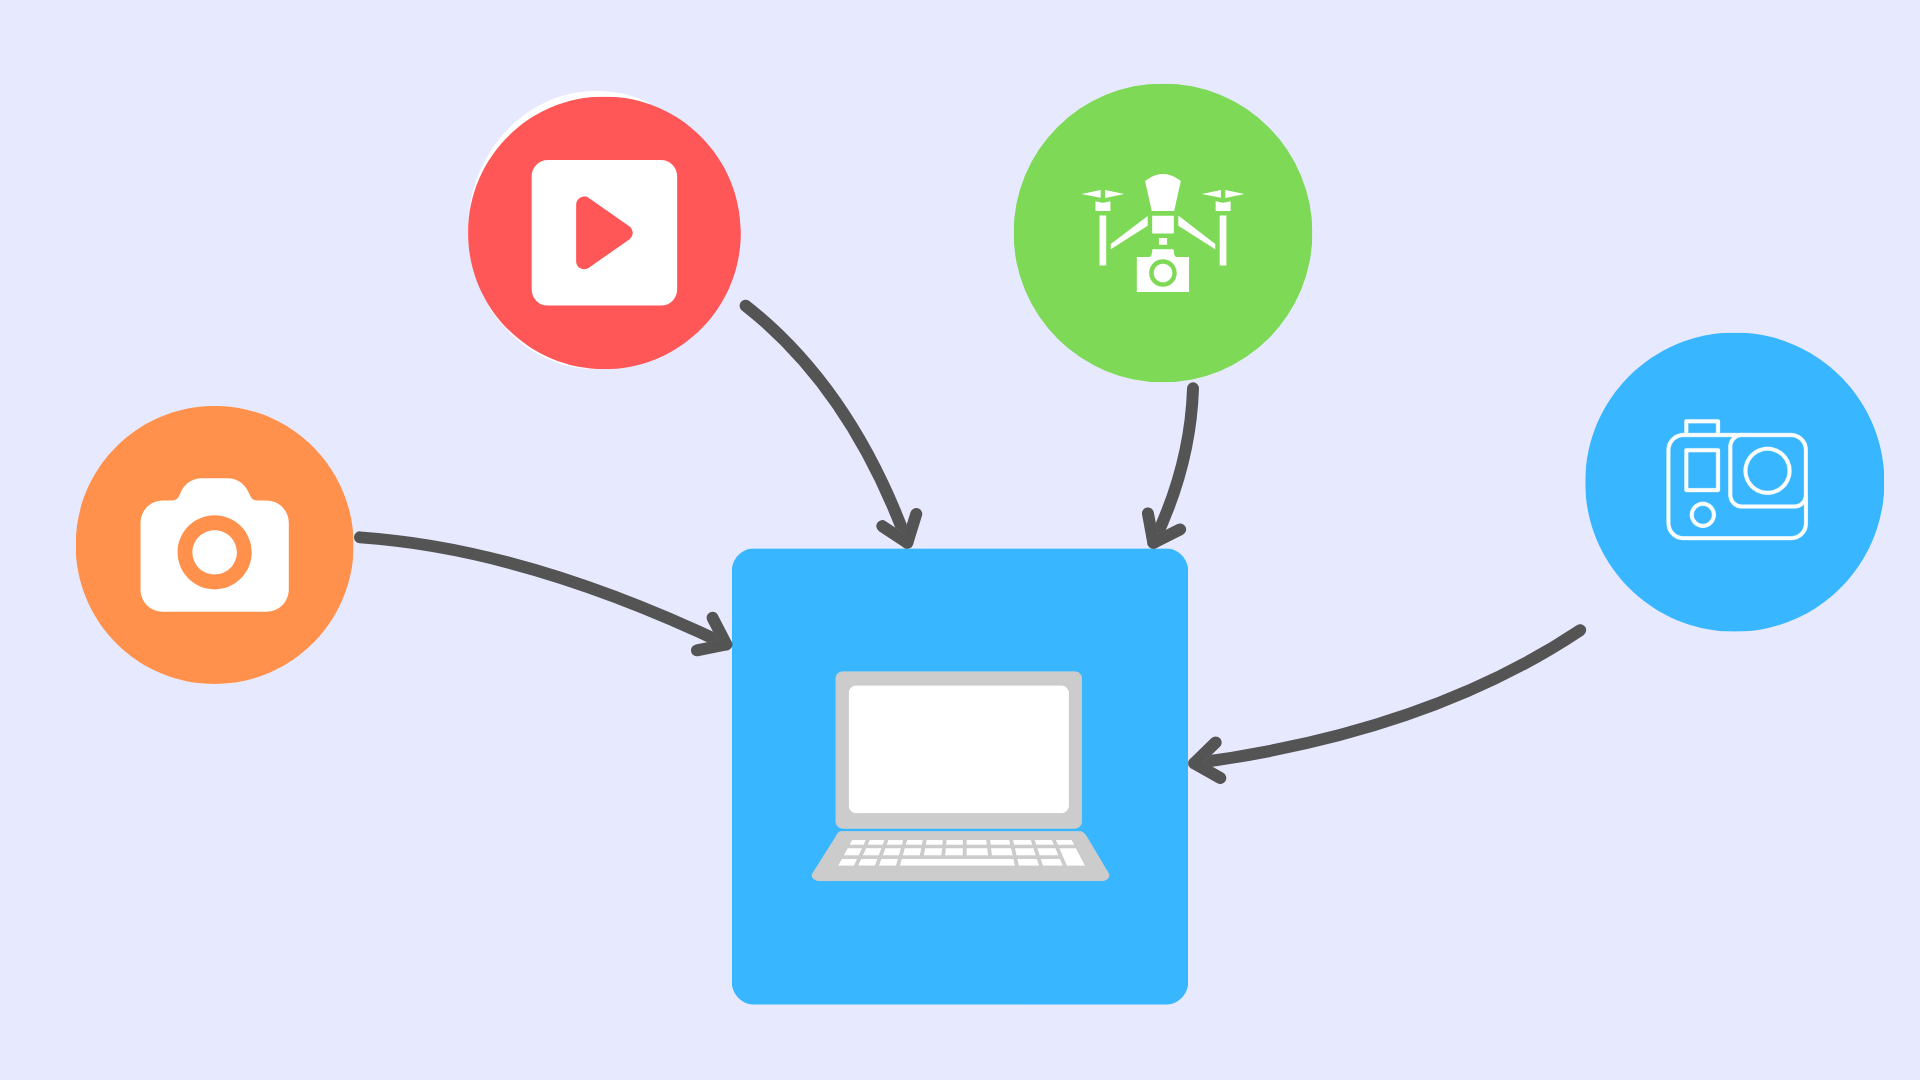
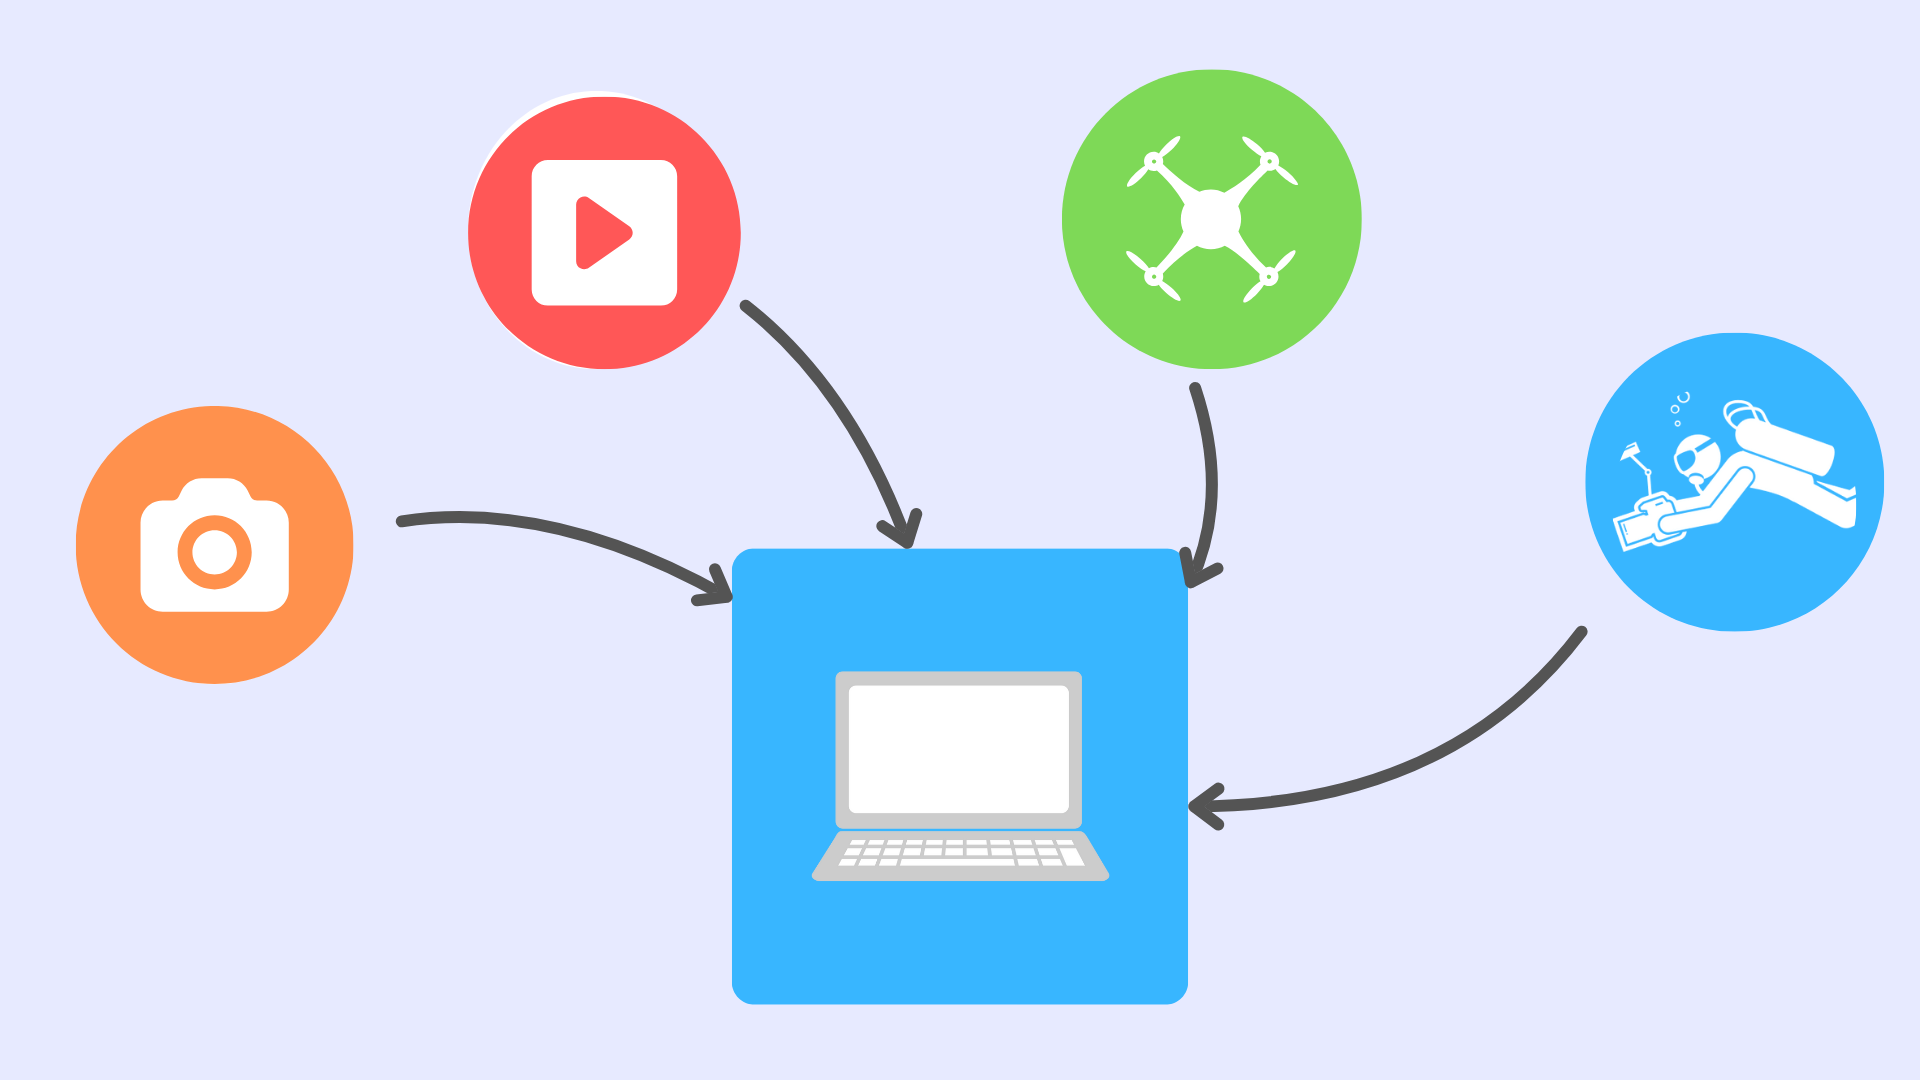
Fix header and minor design changer

diff --git a/templates/base.html b/templates/base.html
@@ -17,7 +17,7 @@
 </head>
 <body class="bg-light">
 <!-- NAVBAR -->
-<nav class="navbar navbar-expand-lg navbar-light bg-light rounded shadow-sm mb-4">
+<nav class="navbar navbar-expand-lg navbar-light bg-light rounded shadow-sm mb-3">
   <div class="container">
     <a class="navbar-brand d-flex align-items-center" href="{{ url_for('home') }}">
       <img src="{{ url_for('static', filename='img/logo_small.png') }}" alt="Logo"
@@ -26,9 +26,9 @@
     </a>
     <div class="collapse navbar-collapse justify-content-end">
       <ul class="navbar-nav">
-        <li class="nav-item">
-          <a class="nav-link" href="{{ url_for('camera_list') }}">
-            <i class="bi bi-camera"></i> Cameras
+        <li class="nav-item ms-2">
+          <a href="{{ url_for('camera_list') }}" class="btn btn-outline-secondary btn-sm">
+            <i class="bi bi-camera me-1"></i> Manage Cameras
           </a>
         </li>
       </ul>

diff --git a/templates/index.html b/templates/index.html
@@ -1,6 +1,6 @@
 {% extends "base.html" %}
 
-{% block title %}Media Logger | Select your Memory Card{% endblock %}
+{% block title %}Media Logger | Disk Selector {% endblock %}
 
 {% block content %}
 <div class="text-center mb-4 hero-section">
@@ -9,7 +9,7 @@
   <p class="text-muted">Copy and organize your images on the external disk</p>
 </div>
 
-<h3 class="text-center mb-4">Select your memory card</h3>
+<h3 class="text-center">Select your memory card</h3>
 {% if disks %}
 <div class="row row-cols-1 row-cols-md-2 g-4">
     {% for item in disks %}
@@ -30,7 +30,7 @@
     {% endfor %}
 </div>
 {% else %}
-  <div class="alert alert-warning text-center mt-4">
+  <div class="alert alert-warning text-center mt-2">
     <i class="bi bi-exclamation-circle me-2"></i>
     No external disks detected. Please insert a memory card.
   </div>

diff --git a/templates/cameras.html b/templates/cameras.html
@@ -1,5 +1,5 @@
 {% extends "base.html" %}
-{% block title %}Active Cameras{% endblock %}
+{% block title %}Media Logger | Active Cameras{% endblock %}
 
 {% block content %}
 <h2 class="mb-4">Active Cameras</h2>

diff --git a/templates/status.html b/templates/status.html
@@ -1,5 +1,5 @@
 {% extends "base.html" %}
-{% block title %}Copy Status{% endblock %}
+{% block title %}Media Logger | Copy Status{% endblock %}
 
 {% block content %}
 <h2 class="mb-4">Copy Status</h2>

diff --git a/templates/select.html b/templates/select.html
@@ -1,5 +1,5 @@
 {% extends "base.html" %}
-{% block title %}Selecionar Pastas{% endblock %}
+{% block title %}Media Logger | Select Dates{% endblock %}
 
 {% block content %}
 

diff --git a/utils.py b/utils.py
@@ -48,6 +48,7 @@ def find_dates(disk):
 
     for root, dirs, files in os.walk(disk):
         for file in files:
+
             if file.lower().endswith(IMG_EXTS):
                 file_path = os.path.join(root, file)
                 try:
@@ -98,7 +99,7 @@ def copy_files(disk, folders, destination):
 
         main_folder = f"{date_obj.strftime('%Y%m%d')} {tag.title()}"
         base_path = os.path.join(destination, main_folder, camera_name)
-        photo_path = os.path.join(base_path, "photo", "others")
+        photo_path = os.path.join(base_path, "photo")  # <- removido 'others'
         video_path = os.path.join(base_path, "video")
 
         os.makedirs(photo_path, exist_ok=True)
@@ -112,33 +113,26 @@ def copy_files(disk, folders, destination):
                     continue
 
                 ext = os.path.splitext(file)[1].lower()
-
-                # Detect panoramas
-                is_pano = "pano" in file.lower()
+                is_pano_folder = "panorama" in root.lower()
                 is_photo = ext in COPY_EXTS
                 is_video = ext in VIDEO_EXTS
 
                 if is_photo:
-                    # Dentro de pasta chamada PANORAMA?
-                    if "panorama" in root.lower():
+                    if is_pano_folder:
                         pano_folder = os.path.dirname(path)
                         pano_files = [f for f in os.listdir(pano_folder) if os.path.isfile(os.path.join(pano_folder, f))]
                         pano_count = len(pano_files)
+                        pano_type = dict_panos.get(pano_count, "others")
 
-                        pano_type = dict_panos.get(pano_count, "Unknown")
                         pano_base = os.path.join(base_path, "photo", "panoramas")
-
-                        # Procurar pasta disponível com incremento
                         candidate_folder = os.path.join(pano_base, pano_type)
                         index = 1
-                        while os.path.exists(os.path.join(candidate_folder)) and \
-                                file in os.listdir(os.path.join(candidate_folder)):
+                        while os.path.exists(candidate_folder) and file in os.listdir(candidate_folder):
                             candidate_folder = os.path.join(pano_base, f"{pano_type}_{index}")
                             index += 1
 
                         os.makedirs(candidate_folder, exist_ok=True)
                         dest = os.path.join(candidate_folder, file)
-
                     else:
                         dest = os.path.join(photo_path, file)
 
@@ -165,6 +159,7 @@ def copy_files(disk, folders, destination):
         "size": size_str,
         "path": base_path
     }
+
 
 
 def load_camera_db():

diff --git a/preview.py b/preview.py
@@ -12,7 +12,7 @@ def convert_raw_to_jpg(raw_path, output_path):
         with rawpy.imread(raw_path) as raw:
             rgb = raw.postprocess()
         img = Image.fromarray(rgb)
-        img = img.resize((300, 300))
+        img = img.resize((150, 150))
         img.save(output_path, "JPEG")
         return output_path
     except Exception as e:
@@ -69,6 +69,7 @@ def get_preview_images(disk, target_date, max_images=9):
                 shutil.copy2(path, target)
             except:
                 continue
+        print("preview")
         final_paths.append(f"/{target.replace(os.sep, '/')}")
 
     return final_paths

diff --git a/app.py b/app.py
@@ -85,7 +85,7 @@ def select():
             "raw": raw_date,
             "folder": folder_prefix,
             "display": date.strftime('%d-%b'),
-            "preview": get_preview_images(disk, date, max_images=9),
+            "preview": get_preview_images(disk, date, max_images=6),
             "stats": analyze_folder_content(disk, raw_date),
             "tag": tag
         }

diff --git a/README.md b/README.md
@@ -1,3 +1,112 @@
 # media_logger
 
-Generated Flask starter.
+ Media Logger
+
+**Media Logger** is a Flask-based tool for organizing and managing media files (photos and videos) from multiple cameras. It helps identify cameras using EXIF data, suggests thumbnail images, and sorts files into structured folders based on date, camera type, media type, and panorama format.
+
+---
+
+## 🚀 Features
+
+- Upload a sample photo to auto-detect EXIF camera info
+- Automatically fill in camera name and fetch suggested images
+- Create and edit camera profiles via a web interface
+- Organize files into structured folders:
+  - By date (e.g., `20250506 Praia de Ipanema`)
+  - By camera name (e.g., `DJI Air 3`)
+  - By media type (`photo/`, `video/`, `photo/panoramas/`)
+- Detect and classify panoramas by type (Vertical, 3x3, 180°, 360°)
+- Lightweight, responsive UI built with Bootstrap 5
+- EXIF preview and organization logic based on file modification date
+
+---
+
+## 📁 Folder Structure Example
+
+20250506 Praia de Ipanema/
+├── DJI Air 3/
+│ ├── photo/
+│ │ ├── others/
+│ │ └── panoramas/
+│ │ ├── 3x3/
+│ │ ├── 3x3_1/
+│ │ └── 180/
+│ └── video/
+
+yaml
+Copy
+Edit
+
+---
+
+## 🛠 Requirements
+
+- Python 3.8+
+- pip
+
+---
+
+## 🔧 Installation
+
+```bash
+# Clone the repository
+git clone https://github.com/yourusername/media-logger.git
+cd media-logger
+
+# (Optional) Create a virtual environment
+python -m venv venv
+source venv/bin/activate  # Windows: venv\Scripts\activate
+
+# Install dependencies
+pip install -r requirements.txt
+
+# Run the Flask app
+python app.py
+Then visit http://localhost:5000 in your browser.
+
+## 🖥 Technologies Used
+Python 3
+
+Flask
+
+Bootstrap 5
+
+EXIFRead
+
+rawpy + Pillow (for RAW preview)
+
+JavaScript (vanilla)
+
+📸 Panorama Types Supported
+Count	Type
+3	Vertical
+9	3x3
+21	180°
+33	360°
+
+🤖 Auto Camera Detection
+When uploading a test image, the app will:
+
+Extract EXIF make & model
+
+Pre-fill the camera ID field
+
+Suggest a thumbnail image using DuckDuckGo
+
+📜 License
+This project is licensed under the MIT License.
+
+👤 Author
+Developed by Kaue Senger
+GitHub @kauetg
+
+
+
+
+
+
+
+
+
+
+
